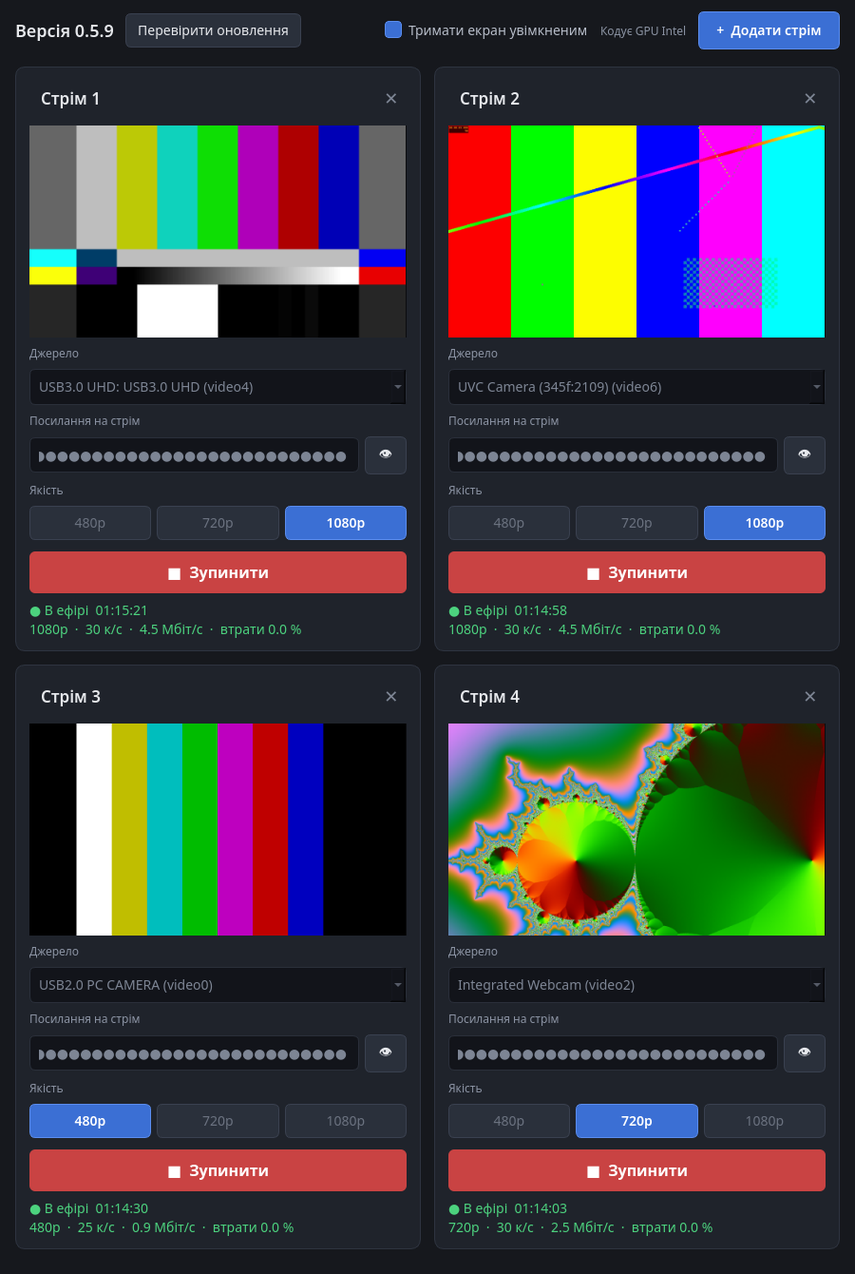
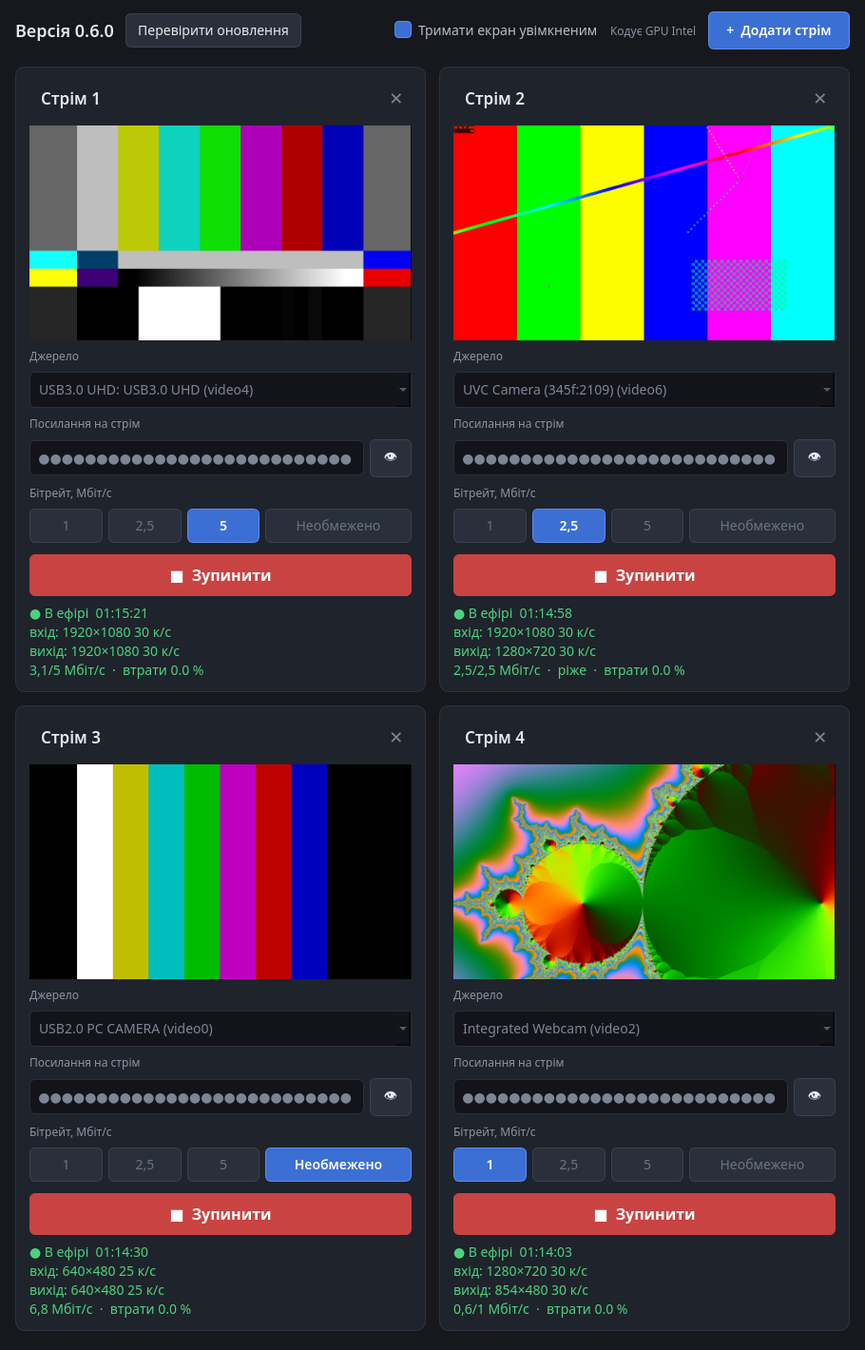
0.6.0: кнопки бітрейту замість якості, кодер тримає якість зі стелею
- кнопки 1 / 2,5 / 5 Мбіт/с і «Необмежено»; розмір кадру прив'язаний до стелі
  (480p / 720p / 1080p / як дає джерело);
- кодер тримає якість, стеля лише обмежує: спокійна картинка важить мало,
  складна росте до стелі. CPU: crf + maxrate; GPU: проба при старті шукає
  режим «якість зі стелею» (VAAPI QVBR, NVENC vbr+cq, QSV, AMF), далі VBR,
  далі рівний потік, як було;
- «Необмежено» має запобіжник 25 Мбіт/с: чистий шум без нього дає понад 100;
- стан секції: вхід (розмір, к/с), вихід (розмір, к/с), бітрейт n/l за останні
  6 с, «ріже» — коли бітрейт уперся в стелю в режимі якості.

Виміряно на Intel Xe: на чорному екрані 17 кбіт/с замість 2348; на чистому шумі
жоден режим GPU стелю не тримає (10–12 Мбіт/с при стелі 2,5).

diff --git a/eazy_streamer/ffmpeg_cmd.py b/eazy_streamer/ffmpeg_cmd.py
@@ -21,18 +21,35 @@ _DSHOW_FORMATS = {"MJPG": ["-vcodec", "mjpeg"], "YUYV": ["-pixel_format", "yuyv4
 
 @dataclass(frozen=True)
 class Quality:
+    """Кнопка в секції: стеля бітрейту. Розмір кадру йде в комплекті — на 1 Мбіт/с кадр 1080p
+    розсипався б на квадрати, тому до малої стелі картинку зменшуємо."""
     key: str
     label: str
-    height: int
-    kbit: int
+    height: int         # кадр в ефірі не вищий за це (більше, ніж дає джерело, не буває)
+    kbit: int           # стеля бітрейту; 0 — без стелі
 
 
+NO_LIMIT_HEIGHT = 100000
 QUALITIES = (
-    Quality("low", "480p", 480, 1000),
-    Quality("mid", "720p", 720, 2500),
-    Quality("high", "1080p", 1080, 4500),
+    Quality("low", "1", 480, 1000),
+    Quality("mid", "2,5", 720, 2500),
+    Quality("high", "5", 1080, 5000),
+    Quality("max", "Необмежено", NO_LIMIT_HEIGHT, 0),
 )
 DEFAULT_QUALITY = "mid"
+
+# Кодер тримає якість, а стеля лише обмежує зверху: спокійна картинка важить мало,
+# складна росте до стелі. Числа — рівень якості (менше = краще), звичні для H.264.
+CPU_QUALITY = 23
+HW_QUALITY = 24
+# «Необмежено» теж має запобіжник: чистий шум на якості 24 дає понад 100 Мбіт/с
+# (виміряно), і такий потік покладе і канал, і сервер
+SAFETY_KBIT = 25000
+
+# Як апаратний кодер керує бітрейтом — визначає проба при старті:
+#   quality — якість зі стелею (найкраще); vbr — стеля без якості, але на простій картинці
+#   не доливає; cbr — завжди рівно стеля (як було до 0.6)
+HW_RC = "cbr"
 
 # Який апаратний кодер пройшов пробу: vaapi (Linux), nvenc / qsv / amf (Windows).
 # None — кодуємо процесором. Виставляє hwenc.Probe.
@@ -52,13 +69,13 @@ HW_VARIANTS = ((None, False), (None, True), ("iHD", True), ("i965", False), ("ra
 WIN_ENCODERS = ("nvenc", "qsv", "amf")
 
 
-def hw_probe_args(node: str, low_power: bool = False, kind: str = "vaapi") -> list[str]:
-    """Короткий пробний запуск: чи вміє ця відеокарта кодувати H.264."""
+def hw_probe_args(node: str, low_power: bool = False, kind: str = "vaapi", rc: str = "cbr") -> list[str]:
+    """Короткий пробний запуск: чи вміє ця відеокарта кодувати H.264 (у заданому режимі бітрейту)."""
     head = ["-hide_banner", "-loglevel", "error"]
     if kind == "vaapi":
         head += ["-vaapi_device", node]
     return head + ["-f", "lavfi", "-i", "color=size=1280x720:rate=30", "-frames:v", "10",
-                   "-vf", _to_encoder(kind)] + _hw_encoder(2500, low_power, kind=kind) + ["-f", "null", "-"]
+                   "-vf", _to_encoder(kind)] + _hw_encoder(2500, low_power, kind=kind, rc=rc) + ["-f", "null", "-"]
 
 
 def _to_encoder(kind: str | None) -> str:
@@ -70,24 +87,50 @@ def _to_encoder(kind: str | None) -> str:
     return "format=yuv420p"
 
 
-def _hw_encoder(kbit: int, low_power: bool, gop: int = STREAM_FPS * 2, kind: str | None = None) -> list[str]:
+def _hw_encoder(kbit: int, low_power: bool, gop: int = STREAM_FPS * 2, kind: str | None = None,
+                rc: str | None = None) -> list[str]:
+    """kbit=0 — без стелі (діє лише запобіжник)."""
     kind = kind or HW_KIND or "vaapi"
-    rate = ["-b:v", "%dk" % kbit, "-maxrate", "%dk" % kbit, "-bufsize", "%dk" % (kbit * 2),
-            "-bf", "0", "-g", str(gop)]
+    rc = rc or HW_RC
+    cap = kbit or SAFETY_KBIT
+    ceiling = ["-maxrate", "%dk" % cap, "-bufsize", "%dk" % (cap * 2)]
+    fixed = ["-b:v", "%dk" % cap] + ceiling
+    tail = ["-bf", "0", "-g", str(gop)]
+    q = str(HW_QUALITY)
     if kind == "nvenc":
-        return ["-c:v", "h264_nvenc", "-preset", "p4", "-tune", "ll", "-rc", "cbr"] + rate
+        head = ["-c:v", "h264_nvenc", "-preset", "p4", "-tune", "ll"]
+        if rc == "quality":
+            return head + ["-rc", "vbr", "-cq", q, "-b:v", "0"] + ceiling + tail
+        return head + (["-rc", "cbr"] + fixed if kbit else ["-rc", "constqp", "-qp", q]) + tail
     if kind == "qsv":
-        return ["-c:v", "h264_qsv", "-preset", "veryfast", "-look_ahead", "0"] + rate
+        head = ["-c:v", "h264_qsv", "-preset", "veryfast", "-look_ahead", "0"]
+        if rc == "quality":
+            return head + ["-global_quality", q] + fixed + tail
+        return head + (fixed if kbit else ["-global_quality", q]) + tail
     if kind == "amf":
-        return ["-c:v", "h264_amf", "-usage", "lowlatency", "-rc", "cbr"] + rate
-    return ["-c:v", "h264_vaapi"] + rate + (["-low_power", "1"] if low_power else [])
+        head = ["-c:v", "h264_amf", "-usage", "lowlatency"]
+        if rc == "quality":
+            return head + ["-rc", "qvbr", "-qvbr_quality_level", q] + fixed + tail
+        return head + (["-rc", "cbr"] + fixed if kbit else ["-rc", "cqp", "-qp_i", q, "-qp_p", q]) + tail
+    head, low = ["-c:v", "h264_vaapi"], (["-low_power", "1"] if low_power else [])
+    if rc == "quality":
+        return head + ["-rc_mode", "QVBR", "-global_quality", q] + fixed + tail + low
+    if not kbit:
+        return head + ["-rc_mode", "CQP", "-qp", q] + tail + low
+    return head + (["-rc_mode", "VBR"] if rc == "vbr" else []) + fixed + tail + low
 
 
 def _cpu_encoder(kbit: int, gop: int = STREAM_FPS * 2) -> list[str]:
+    cap = kbit or SAFETY_KBIT
     return ["-c:v", "libx264", "-preset", "veryfast", "-tune", "zerolatency",
             "-profile:v", "main",
-            "-b:v", "%dk" % kbit, "-maxrate", "%dk" % kbit, "-bufsize", "%dk" % (kbit * 2),
+            "-crf", str(CPU_QUALITY), "-maxrate", "%dk" % cap, "-bufsize", "%dk" % (cap * 2),
             "-g", str(gop), "-keyint_min", str(gop), "-sc_threshold", "0"]
+
+
+def rate_mode(level: int) -> str:
+    """Як зараз керується бітрейт: від цього залежить, чи можна вірити напису «ріже»."""
+    return "quality" if level == 0 else HW_RC
 
 
 def quality(key: str) -> Quality:
@@ -141,18 +184,23 @@ def source_size(device: Device | None, want_height: int) -> tuple[int, int] | No
 
 
 def stream_kbit(device: Device | None, q: Quality) -> int:
-    """Бітрейт під справжню картинку: джерело 480p не варте 4,5 Мбіт/с, хоч би що натиснули."""
-    size = source_size(device, q.height)
-    if not size or size[1] >= q.height:
-        return q.kbit
-    fitting = [x.kbit for x in QUALITIES if x.height <= size[1]]
-    return min(q.kbit, max(fitting) if fitting else QUALITIES[0].kbit)
+    """Стеля бітрейту — рівно та, що на кнопці (0 = без стелі). Людина обрала — так і робимо:
+    аналоговому снігу 480p може знадобитись більше, ніж чистому 1080p."""
+    return q.kbit
 
 
-def out_height(device: Device | None, q: Quality) -> int:
-    """Висота кадру, що справді піде в ефір: картинку не розтягуємо понад джерело."""
+def out_size(device: Device | None, q: Quality) -> tuple[int, int] | None:
+    """Кадр, що справді піде в ефір. None — джерело не каже свого розміру наперед."""
     size = source_size(device, q.height)
-    return min(q.height, size[1]) if size else q.height
+    if not size:
+        return None
+    height = min(q.height, size[1])
+    return _even(size[0] * height / size[1]), height
+
+
+def thin_step(rate: float | None) -> int:
+    """Кожен який кадр беремо: 1 — усі; 2 — кожен другий, якщо карта вміє лише 60 к/с."""
+    return int(-(-rate // STREAM_FPS)) if rate and rate > STREAM_FPS * 1.2 else 1
 
 
 def _even(value: float) -> int:
@@ -224,7 +272,7 @@ def build(device: Device | None, url: str | None, q: Quality, level: int | None 
 
     # В ефір іде стільки кадрів, скільки дає джерело: 25 — то 25, 10 — то 10, без подвоєнь.
     # Лише якщо карта не вміє менше ніж 60 — беремо кожен другий, щоб не кодувати зайвого.
-    step = int(-(-rate // STREAM_FPS)) if rate and rate > STREAM_FPS * 1.2 else 1
+    step = thin_step(rate)
     thin = "framestep=%d," % step if step > 1 else ""
     gop = max(20, int(round(2 * rate / step))) if rate else STREAM_FPS * 2     # ключовий кадр раз на 2 с
     if level == 2:

diff --git a/eazy_streamer/engine.py b/eazy_streamer/engine.py
@@ -51,6 +51,13 @@ class Engine(QObject):
         self._fps_window: list[float] = []  # к/с у кожному 2-секундному звіті від минулого запису
         self._preview_frames = 0            # кадрів перегляду від минулого запису в журнал
         self._size_prev = 0
+        self._size_last = 0
+        self._recent: list[tuple[float, int]] = []     # (секунд, байт) за останні звіти
+        self.kbit_now: float | None = None  # бітрейт зараз, а не середній від старту
+        self.in_fps: float | None = None    # скільки кадрів за секунду дає джерело
+        self.out_fps: float | None = None   # скільки йде в ефір
+        self.rate_mode = "cbr"              # як керується бітрейт у цьому ефірі
+        self._step = 1
         self.stalled = False                # ефір іде, а нових кадрів немає
         self._rate_prev = None
         self._reports = 0
@@ -132,6 +139,9 @@ class Engine(QObject):
         self.stats = {}
         self._preview_frames = 0
         self._size_prev = 0
+        self._size_last = 0
+        self._recent = []
+        self.kbit_now = self.in_fps = self.out_fps = None
         self.stalled = False
         self.net = {}
         self.src_fps = None
@@ -154,11 +164,15 @@ class Engine(QObject):
         self._proc = proc
         self._set(STARTING, "Підключення…" if url else "")
         fourcc, size, rate = ffmpeg_cmd.capture(device, quality.height if url else 480, preview=not url)
-        log.info("[%s] старт %s: джерело «%s» %s %s %s к/с, якість %s, бітрейт %s, обробка: %s", self.label,
-                 "ЕФІРУ" if url else "перегляду", device.name, fourcc or "-",
+        self._step = ffmpeg_cmd.thin_step(rate) if url else 1
+        self.rate_mode = ffmpeg_cmd.rate_mode(self._level)
+        out = ffmpeg_cmd.out_size(device, quality) if url else None
+        log.info("[%s] старт %s: вхід «%s» %s %s %s к/с; вихід %s, стеля %s, бітрейт керується: %s, обробка: %s",
+                 self.label, "ЕФІРУ" if url else "перегляду", device.name, fourcc or "-",
                  "%dx%d" % size if size else "розмір як дасть карта", "%g" % rate if rate else "?",
-                 quality.label if url else "-",
-                 "%dk" % ffmpeg_cmd.stream_kbit(device, quality) if url else "-",
+                 "%dx%d" % out if out else "-",
+                 ("%d кбіт/с" % quality.kbit if quality.kbit else "немає") if url else "-",
+                 self.rate_mode if url else "-",
                  ffmpeg_cmd.LEVEL_NAMES[self._level] if url else "-")
         log.debug("[%s] ffmpeg %s", self.label, mask(" ".join(args)))
         proc.start(osdep.ffmpeg_path(), args)
@@ -230,6 +244,16 @@ class Engine(QObject):
             out_fps = (cur[1] - prev[1]) / dt
             # в ефір іде рівно стільки кадрів, скільки дало джерело (якщо не проріджуємо 60 -> 30)
             self.src_fps = max(0.0, ((cur[1] - prev[1]) - (cur[2] - prev[2]) + (cur[3] - prev[3])) / dt)
+            self.out_fps = out_fps
+            self.in_fps = self.src_fps * self._step
+            try:
+                size_now = int(s.get("total_size", "0"))
+            except ValueError:
+                size_now = self._size_last
+            # бітрейт «зараз»: за три останні звіти (6 с), бо один звіт стрибає від ключових кадрів
+            self._recent = (self._recent + [(dt, max(0, size_now - self._size_last))])[-3:]
+            self._size_last = size_now
+            self.kbit_now = sum(b for _d, b in self._recent) * 8 / 1000 / sum(d for d, _b in self._recent)
         self._reports += 1
         if out_fps is not None:
             self._fps_window.append(out_fps)
@@ -260,14 +284,16 @@ class Engine(QObject):
         log.log(30 if slow or lossy else 20,
                 "[%s] хід: кадрів %s, в ефір %s к/с (%s), %s, викинуто %s, подвоєно %s, "
                 "швидкість %s, CPU %s, мережа: затримка %s мс, повторів %s%%, усього повторно %s байт; "
-                "від минулого запису: на сервер пішло %d КБ, у перегляд %d кадрів%s",
+                "від минулого запису: на сервер пішло %d КБ, у перегляд %d кадрів; зараз %s кбіт/с, вхід %s к/с%s",
                 self.label, s.get("frame", "?"), "%.1f" % out_fps if out_fps is not None else "?",
                 spread, s.get("bitrate", "?"),
                 s.get("drop_frames", "?"), s.get("dup_frames", "?"), s.get("speed", "?"), cpu,
                 "%.0f" % self.net["rtt"] if "rtt" in self.net else "?",
                 "%.2f" % self.net["loss"] if "loss" in self.net else "?",
                 "%d" % self.net["retrans_total"] if "retrans_total" in self.net else "?",
-                sent // 1024, preview, " — ЕФІР ЗАВМЕР" if self.stalled else "")
+                sent // 1024, preview, "%.0f" % self.kbit_now if self.kbit_now is not None else "?",
+                "%.1f" % self.in_fps if self.in_fps is not None else "?",
+                " — ЕФІР ЗАВМЕР" if self.stalled else "")
 
     def _cpu_percent(self) -> str:
         """Скільки одного ядра з'їв цей ffmpeg від минулого звіту (100% = ядро повністю)."""

diff --git a/eazy_streamer/app.py b/eazy_streamer/app.py
@@ -166,17 +166,21 @@ class Card(QFrame):
             btn = QPushButton(q.label)
             btn.setCheckable(True)
             btn.setChecked(q.key == saved_quality)
-            btn.setToolTip("%s, близько %.1f Мбіт/с" % (q.label, q.kbit / 1000))
+            btn.setToolTip(
+                "Не більше %s Мбіт/с. Кадр в ефірі не більший за %dp.\nСпокійна картинка займає менше." % (
+                    q.label, q.height) if q.kbit else
+                "Без стелі: картинка займає стільки, скільки їй треба, кадр — як дає джерело.\n"
+                "Сніг і дрібні деталі можуть дати 10 Мбіт/с і більше.")
             self.quality_group.addButton(btn)
             self.quality_buttons[q.key] = btn
-            quality_row.addWidget(btn)
+            quality_row.addWidget(btn, 1 if q.kbit else 2)
 
         self.go_btn = QPushButton()
         self.go_btn.setObjectName("go")
         self.go_btn.setCursor(Qt.CursorShape.PointingHandCursor)
         self.status = QLabel()
         self.status.setWordWrap(True)
-        self.status.setMinimumHeight(38)
+        self.status.setMinimumHeight(78)        # чотири рядки: щоб секція не стрибала, коли піде ефір
         self.status.setAlignment(Qt.AlignmentFlag.AlignTop | Qt.AlignmentFlag.AlignLeft)
 
         head = QHBoxLayout()
@@ -196,7 +200,7 @@ class Card(QFrame):
         box.addWidget(self.source_combo)
         box.addWidget(self._hint("Посилання на стрім"))
         box.addLayout(url_row)
-        box.addWidget(self._hint("Якість"))
+        box.addWidget(self._hint("Бітрейт, Мбіт/с"))
         box.addLayout(quality_row)
         box.addSpacing(4)
         box.addWidget(self.go_btn)
@@ -376,16 +380,21 @@ class Card(QFrame):
         elif state == engine.LIVE:
             text, tone = "● В ефірі  %s" % _clock(time.monotonic() - self.engine.live_since), "ok"
             q = ffmpeg_cmd.quality(self.quality_key())
-            real = ffmpeg_cmd.out_height(dev_now, q)
-            parts = ["%dp" % real if real >= q.height else "%dp — більше джерело не дає" % real]
-            if self.engine.src_fps is not None:
-                parts.append("%.0f к/с" % self.engine.src_fps)
-            stats, net = self.engine.stats, self.engine.net
-            if stats.get("bitrate", "").endswith("kbits/s"):
-                try:
-                    parts.append("%.1f Мбіт/с" % (float(stats["bitrate"][:-7]) / 1000))
-                except ValueError:
-                    pass
+            eng = self.engine
+            came = ffmpeg_cmd.source_size(dev_now, q.height)
+            goes = ffmpeg_cmd.out_size(dev_now, q)
+            fps = lambda value: " %.0f к/с" % value if value is not None else ""
+            text += "\nвхід: %s%s" % ("%d×%d" % came if came else "?", fps(eng.in_fps))
+            text += "\nвихід: %s%s" % ("%d×%d" % goes if goes else "?", fps(eng.out_fps))
+            parts = []
+            stats, net = eng.stats, eng.net
+            if eng.kbit_now is not None:
+                now = ("%.1f" % (eng.kbit_now / 1000)).replace(".", ",")
+                parts.append("%s/%s Мбіт/с" % (now, q.label) if q.kbit else "%s Мбіт/с" % now)
+                # «ріже» кажемо лише там, де кодер тримає якість: тоді бітрейт під стелею означає,
+                # що картинка хотіла б більше. У режимі рівного потоку він під стелею завжди.
+                if q.kbit and eng.rate_mode == "quality" and eng.kbit_now >= q.kbit * 0.93:
+                    parts.append("ріже")
             if "loss" in net:
                 parts.append("втрати %.1f %%" % net["loss"])
             slow = stats.get("speed", "1x").rstrip("x")

diff --git a/eazy_streamer/hwenc.py b/eazy_streamer/hwenc.py
@@ -83,12 +83,49 @@ class Probe(QObject):
             ffmpeg_cmd.HW_NODE = node
             ffmpeg_cmd.HW_DRIVER = driver
             ffmpeg_cmd.HW_LOW_POWER = low
-            if kind == "vaapi":
-                self._probe_pipe(node, driver, low)
-            else:
-                self.done.emit()
+            ffmpeg_cmd.HW_RC = "cbr"
+            self._probe_rc(node, driver, low, kind, ["quality", "vbr"] if kind == "vaapi" else ["quality"])
         else:
             self._next()
+
+    def _probe_rc(self, node: str, driver: str | None, low: bool, kind: str, modes: list[str]):
+        """Кодер є. Питання: чи вміє він тримати якість зі стелею, а не просто лити рівний бітрейт."""
+        if not modes:
+            log.info("Керування бітрейтом на GPU: по-старому, рівний потік")
+            self._after_rc(node, driver, low, kind)
+            return
+        mode = modes.pop(0)
+        proc = QProcess(self)
+        self._proc = proc
+        if driver:
+            env = QProcessEnvironment.systemEnvironment()
+            env.insert("LIBVA_DRIVER_NAME", driver)
+            proc.setProcessEnvironment(env)
+
+        def finished(code, status, p=proc):
+            if p is not self._proc:
+                return
+            self._proc = None
+            ok = code == 0 and status == QProcess.ExitStatus.NormalExit
+            err = bytes(p.readAllStandardError().data()).decode("utf-8", "replace").strip().splitlines()
+            log.info("Проба керування бітрейтом «%s»: %s", mode, "ПРАЦЮЄ" if ok else
+                     "ні — код %s — %s" % (code, " | ".join(err[:2])[:240]))
+            p.deleteLater()
+            if ok:
+                ffmpeg_cmd.HW_RC = mode
+                self._after_rc(node, driver, low, kind)
+            else:
+                self._probe_rc(node, driver, low, kind, modes)
+
+        proc.finished.connect(finished)
+        proc.start(osdep.ffmpeg_path(), ffmpeg_cmd.hw_probe_args(node, low, kind, mode))
+        QTimer.singleShot(_TIMEOUT_MS, lambda p=proc: self._on_timeout(p))
+
+    def _after_rc(self, node: str, driver: str | None, low: bool, kind: str):
+        if kind == "vaapi":
+            self._probe_pipe(node, driver, low)
+        else:
+            self.done.emit()
 
     def _probe_pipe(self, node: str, driver: str | None, low: bool):
         """Кодер є. Друге питання: чи вміє GPU ще й приймати кадр, масштабувати й віддавати перегляд."""

diff --git a/tests/test_ffmpeg_cmd.py b/tests/test_ffmpeg_cmd.py
@@ -15,7 +15,8 @@ class BuildTest(unittest.TestCase):
     def test_live_sends_flv_and_keeps_preview(self):
         args = F.build(None, URL, F.quality("high"))
         self.assertEqual(args[args.index("flv") + 1], URL)
-        self.assertEqual(args[args.index("-b:v") + 1], "2500k")
+        self.assertEqual(args[args.index("-maxrate") + 1], "5000k")
+        self.assertIn("-crf", args)             # процесор тримає якість, стеля лише обмежує
         self.assertEqual(args[-1], "pipe:1")
 
     def test_url_check(self):
@@ -94,12 +95,24 @@ class CaptureSizeTest(unittest.TestCase):
         dev = Device("k", "/dev/video0", "card", {"YUYV": [(720, 576), (640, 480)]})
         self.assertEqual(pick_capture(dev, 1080), ("YUYV", (720, 576), None))
 
-    def test_bitrate_follows_real_source_size(self):
+    def test_ceiling_is_what_the_button_says(self):
         small = Device("k", "/dev/video0", "cam", {"MJPG": [(640, 480)]})
-        self.assertEqual(F.stream_kbit(small, F.quality("high")), 1000)
-        self.assertEqual(F.stream_kbit(self.DEV, F.quality("high")), 4500)
-        self.assertEqual(F.stream_kbit(None, F.quality("high")), 2500)     # тестова картинка 720p
-        self.assertEqual(F.stream_kbit(None, F.quality("low")), 1000)
+        self.assertEqual(F.stream_kbit(small, F.quality("high")), 5000)    # сніг 480p може хотіти багато
+        self.assertEqual(F.out_size(small, F.quality("high")), (640, 480))  # а кадр не розтягуємо
+        self.assertEqual(F.out_size(self.DEV, F.quality("low")), (854, 480))
+        self.assertEqual(F.out_size(self.DEV, F.quality("max")), (1920, 1080))
+        self.assertEqual(F.stream_kbit(self.DEV, F.quality("max")), 0)
+
+    def test_no_limit_still_has_a_safety_ceiling(self):
+        args = F.build(None, URL, F.quality("max"))
+        self.assertEqual(args[args.index("-maxrate") + 1], "%dk" % F.SAFETY_KBIT)
+
+    def test_rate_control_tiers(self):
+        self.assertIn("QVBR", F.hw_probe_args("/dev/dri/renderD128", False, "vaapi", "quality"))
+        self.assertIn("VBR", F.hw_probe_args("/dev/dri/renderD128", False, "vaapi", "vbr"))
+        self.assertNotIn("-rc_mode", F.hw_probe_args("/dev/dri/renderD128", False, "vaapi", "cbr"))
+        self.assertIn("-cq", F.hw_probe_args("nvenc", False, "nvenc", "quality"))
+        self.assertEqual(F.rate_mode(0), "quality")
 
     def test_free_size_card(self):
         self.assertEqual(pick_capture(Device("k", "p", "n", {"YUYV": []}), 720), ("YUYV", None, None))
